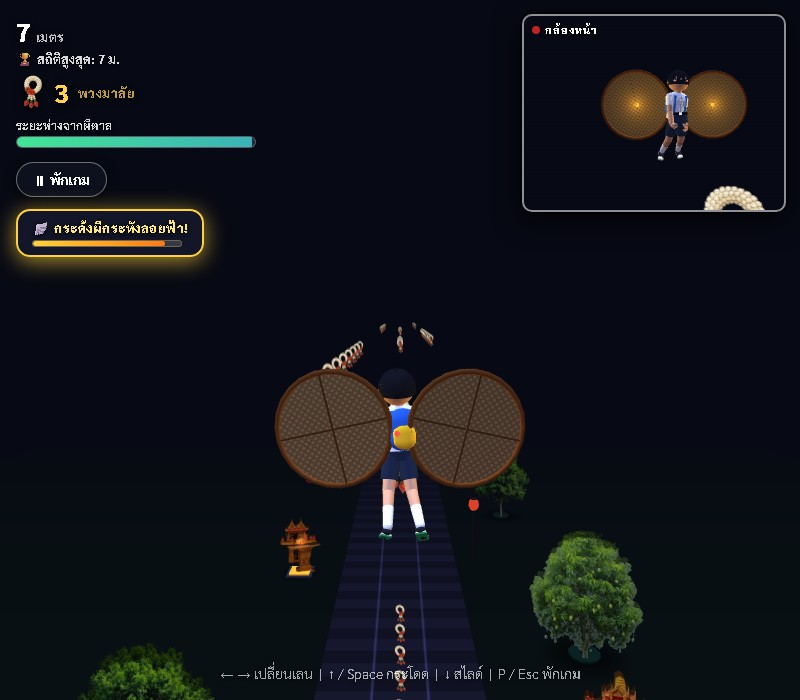
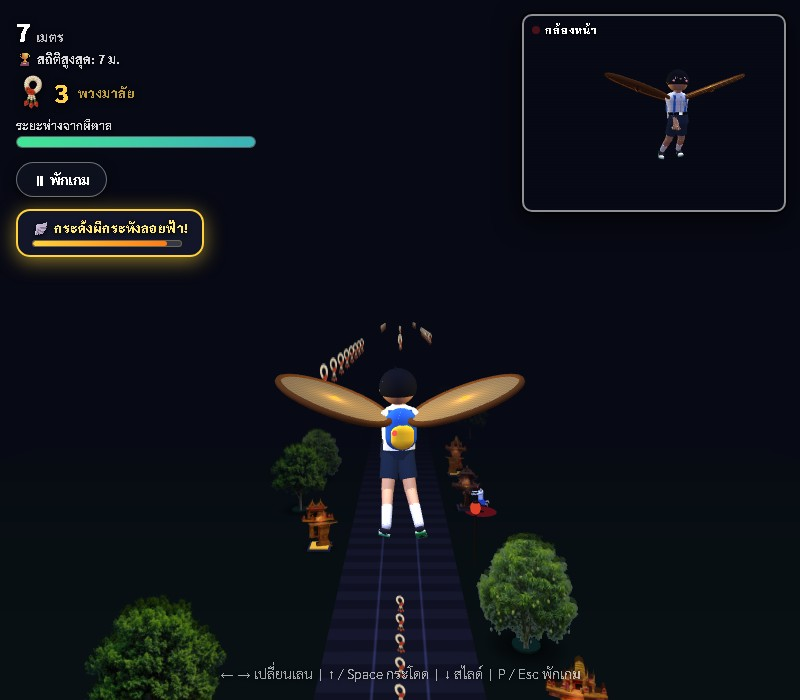
feat: align Phi Krahang wings horizontally with rhythmic flapping motion

diff --git a/character.js b/character.js
@@ -276,7 +276,7 @@ const bambooWeaveTex = (() => {
   t.repeat.set(4, 4);
   return t;
 })();
-const bambooMat = new THREE.MeshLambertMaterial({ map: bambooWeaveTex, color: 0xffffff });
+const bambooMat = new THREE.MeshLambertMaterial({ map: bambooWeaveTex, color: 0xffffff, side: THREE.DoubleSide });
 const bambooRimMat = new THREE.MeshLambertMaterial({ color: 0x5a3416, emissive: 0x1a0d06 });
 const bambooStrutMat = new THREE.MeshLambertMaterial({ color: 0x76461f });
 const charmMatShared = new THREE.MeshBasicMaterial({ color: 0xffd23a });
@@ -284,24 +284,35 @@ const charmMatShared = new THREE.MeshBasicMaterial({ color: 0xffd23a });
 function makeKrahangTray(radius) {
   const rad = radius || 0.50;
   const g = new THREE.Group();
-  // Woven bamboo circular tray
-  const disc = new THREE.Mesh(new THREE.CylinderGeometry(rad, rad, 0.022, 26), bambooMat);
-  disc.rotation.x = Math.PI / 2;
+  // Woven bamboo circular tray — แนวนอน (Horizontal in XZ plane)
+  // Default CylinderGeometry height is along Y axis, circular face is horizontal in XZ plane
+  const disc = new THREE.Mesh(new THREE.CylinderGeometry(rad, rad, 0.022, 28), bambooMat);
   g.add(disc);
-  // Sturdy dark bamboo outer rim
-  const rim = new THREE.Mesh(new THREE.TorusGeometry(rad, 0.034, 8, 26), bambooRimMat);
+
+  // Sturdy dark bamboo outer rim (Torus in Three.js defaults to XY plane; rotateX lays it flat in XZ)
+  const rim = new THREE.Mesh(new THREE.TorusGeometry(rad, 0.034, 8, 28), bambooRimMat);
+  rim.rotation.x = Math.PI / 2;
   g.add(rim);
-  // Bamboo cross struts on back
-  const strutH = new THREE.Mesh(boxG, bambooStrutMat);
-  strutH.scale.set(rad * 1.95, 0.022, 0.022); strutH.position.z = -0.015;
-  g.add(strutH);
-  const strutV = new THREE.Mesh(boxG, bambooStrutMat);
-  strutV.scale.set(0.022, rad * 1.95, 0.022); strutV.position.z = -0.015;
-  g.add(strutV);
-  // Center golden woven button / charm
+
+  // Bamboo cross struts underneath the tray (y = -0.015)
+  const strutX = new THREE.Mesh(boxG, bambooStrutMat);
+  strutX.scale.set(rad * 1.95, 0.020, 0.022); strutX.position.y = -0.015;
+  g.add(strutX);
+  const strutZ = new THREE.Mesh(boxG, bambooStrutMat);
+  strutZ.scale.set(0.022, 0.020, rad * 1.95); strutZ.position.y = -0.015;
+  g.add(strutZ);
+
+  // Center golden woven button / charm on top (y = 0.016)
   const charm = new THREE.Mesh(sphG, charmMatShared);
-  charm.scale.set(0.038, 0.038, 0.02); charm.position.z = 0.016;
+  charm.scale.set(0.038, 0.018, 0.038); charm.position.y = 0.016;
   g.add(charm);
+
+  // Bamboo grip handle loop underneath
+  const handle = new THREE.Mesh(new THREE.TorusGeometry(0.065, 0.014, 6, 12, Math.PI), bambooRimMat);
+  handle.rotation.x = Math.PI; // hangs downward under the tray
+  handle.position.set(0, -0.020, 0);
+  g.add(handle);
+
   return g;
 }
 
@@ -336,8 +347,8 @@ function makeRunner() {
   const pivotL = new THREE.Group();
   pivotL.position.set(-0.20, 0, 0);
   const wingL = makeKrahangTray(0.65);
-  wingL.position.set(-0.56, 0, 0);       // extends outward to the left
-  wingL.rotation.set(0.12, 0.12, 0);
+  wingL.position.set(-0.56, 0, 0);       // extends outward horizontally to the left
+  wingL.rotation.set(0.08, 0, 0.02);
   pivotL.add(wingL);
   krahangRig.add(pivotL);
 
@@ -345,17 +356,17 @@ function makeRunner() {
   const pivotR = new THREE.Group();
   pivotR.position.set(0.20, 0, 0);
   const wingR = makeKrahangTray(0.65);
-  wingR.position.set(0.56, 0, 0);        // extends outward to the right
-  wingR.rotation.set(0.12, -0.12, 0);
+  wingR.position.set(0.56, 0, 0);        // extends outward horizontally to the right
+  wingR.rotation.set(0.08, 0, -0.02);
   pivotR.add(wingR);
   krahangRig.add(pivotR);
 
   // Golden magic wing lights
   const wingLightL = new THREE.PointLight(0xffd23a, 0.9, 3.2);
-  wingLightL.position.set(-0.56, 0, 0.12);
+  wingLightL.position.set(-0.56, 0.08, 0);
   pivotL.add(wingLightL);
   const wingLightR = new THREE.PointLight(0xffd23a, 0.9, 3.2);
-  wingLightR.position.set(0.56, 0, 0.12);
+  wingLightR.position.set(0.56, 0.08, 0);
   pivotR.add(wingLightR);
 
   krahangRig.visible = false;

diff --git a/game.js b/game.js
@@ -659,8 +659,8 @@ function spawnKrahangItem(lane, z) {
   const g = new THREE.Group();
   const tL = C.makeKrahangTray ? C.makeKrahangTray(0.44) : new THREE.Group();
   const tR = C.makeKrahangTray ? C.makeKrahangTray(0.44) : new THREE.Group();
-  tL.position.set(-0.35, 0, 0); tL.rotation.set(0.2, 0.4, 0.35);
-  tR.position.set(0.35, 0, 0); tR.rotation.set(0.2, -0.4, -0.35);
+  tL.position.set(-0.35, 0, 0); tL.rotation.set(0.15, 0.15, 0.30);
+  tR.position.set(0.35, 0, 0); tR.rotation.set(0.15, -0.15, -0.30);
   g.add(tL); g.add(tR);
 
   const ringGeo = new THREE.RingGeometry(0.52, 0.70, 30);
@@ -827,8 +827,10 @@ window.addEventListener('keydown', (e) => {
   else if (k === 'arrowright' || k === 'd') moveLane(1);
   else if (k === 'arrowup' || k === 'w' || k === ' ') jump();
   else if (k === 'arrowdown' || k === 's') slide();
+  else if (k === 'f') activateKrahangFlight();
   else if (k === 'enter' && state !== 'play' && (state === 'menu' || ui.over.style.display === 'flex')) start();
 });
+window.activateKrahangFlight = activateKrahangFlight;
 let touch = null;
 function swipeStart(x, y) { touch = { x, y, done: false }; }
 function swipeMove(x, y) {

diff --git a/README.md b/README.md
@@ -51,7 +51,7 @@
       <sub>สับตีนแตกหลบสิ่งกีดขวาง เก็บพวงมาลัยมะลิ พร้อมหน้าต่างกล้องหลังส่องผีตาลวิ่งกวดตามแบบเรียลไทม์</sub>
     </td>
     <td align="center" width="25%">
-      <img src="Image/preview-krahang.jpg?v=5" alt="กระด้งผีกระหังลอยฟ้า สไตล์ Subway Surfers Jetpack" style="border-radius: 8px; width: 100%; object-fit: cover;" />
+      <img src="Image/preview-krahang.jpg?v=6" alt="กระด้งผีกระหังลอยฟ้า สไตล์ Subway Surfers Jetpack" style="border-radius: 8px; width: 100%; object-fit: cover;" />
       <br /><br />
       <b>🪽 กระด้งผีกระหังลอยฟ้า!</b><br>
       <sub>กระพือปีกกระด้งทะยานขึ้นฟ้า บินหลบผีตาล พร้อมโยกเลนเลี้ยวซ้าย-ขวาเก็บริบบิ้นพวงมาลัยกลางเวหา</sub>
